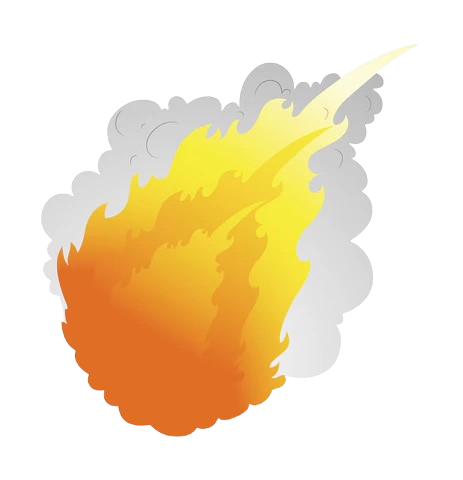
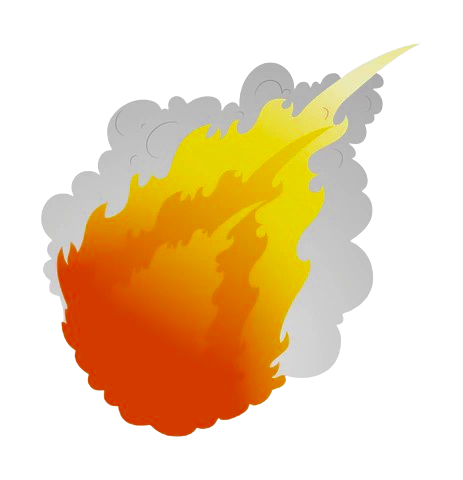
update fire location and colour

Changed region(s): [[0.0907, 0.0938, 0.9071, 0.9062]]

diff --git a/visualizer/code-city/code-city.js b/visualizer/code-city/code-city.js
@@ -139,7 +139,7 @@ void main() { \
           const totalWindows = calculateTotalWindows(gw, gh, gd, faces)
           const totalMutationSurvives = d.data.mutations.total_mutation - d.data.mutations.killed
           // Make it available for user to choose if possible
-          const groupFireCountValue = 2
+          const groupFireCountValue = 1
           const fireCounts = Math.ceil(totalMutationSurvives / groupFireCountValue);
           let fireOnWindows = Math.min(fireCounts, totalWindows)
           const fireOnEachFace = Math.floor(fireOnWindows/faces.length)
@@ -254,7 +254,7 @@ void main() { \
       fireWindowIndices = allIndices.slice(0, fire);
     }
 
-    let windowIdx = 0;
+    let windowIdx = totalWindows - 1;
     for (let i = 0; i < maxRows; i++) {
       for (let j = 0; j < maxCols; j++) {
         const windowGeometry = new three.PlaneGeometry(windowSize, windowSize);
@@ -275,19 +275,19 @@ void main() { \
 
         switch (face) {
           case 'front':
-            pos.set(offsetX, height / 2 + 0.01, offsetY);
+            pos.set(offsetX, height / 2 + 0.005, offsetY);
             rot.set(-Math.PI / 2, 0, 0);
             break;
           case 'back':
-            pos.set(offsetX, -height / 2 - 0.01, offsetY);
+            pos.set(offsetX, -height / 2 - 0.005, offsetY);
             rot.set(Math.PI / 2, 0, Math.PI);
             break;
           case 'right':
-            pos.set(-width / 2 - 0.01, offsetX, offsetY);
+            pos.set(-width / 2 - 0.005, offsetX, offsetY);
             rot.set(-Math.PI / 2, -Math.PI / 2, 0);
             break;
           case 'left':
-            pos.set(width / 2 + 0.01, offsetX, offsetY);
+            pos.set(width / 2 + 0.005, offsetX, offsetY);
             rot.set(-Math.PI / 2, Math.PI / 2, 0);
             break;
         }
@@ -297,7 +297,7 @@ void main() { \
         building.add(windowMesh);
 
         if (windowIdx in fireWindowIndices) {
-          const fireGeometry = new three.PlaneGeometry(windowSize * 1.7, windowSize * 1.7);
+          const fireGeometry = new three.PlaneGeometry(windowSize * 1.5, windowSize * 1.5);
           const fireMaterial = new three.MeshBasicMaterial({
             map: fireTexture,
             transparent: true,
@@ -308,14 +308,33 @@ void main() { \
           fireMesh.position.copy(pos);
 
           // Move fire above the window (adjust direction based on face)
-          fireMesh.position.z += 0.01;
+          fireMesh.position.z += 0.005;
+
+          switch (face) {
+          case 'front':
+            fireMesh.position.x -= 0.01;
+            fireMesh.position.y += 0.005;
+            break;
+          case 'back':
+            fireMesh.position.x += 0.01;
+            fireMesh.position.y -= 0.005;
+            break;
+          case 'right':
+            fireMesh.position.y -= 0.01;
+            fireMesh.position.x -= 0.005;
+            break;
+          case 'left':
+            fireMesh.position.y += 0.01;
+            fireMesh.position.x += 0.005;
+            break;
+        }
 
           fireMesh.rotation.copy(rot);
           fireMesh.rotateZ(Math.PI);
           fireMesh.userData.isMutantFire = true;
           building.add(fireMesh);
         }
-        windowIdx++
+        windowIdx--
       }
     }
   }
